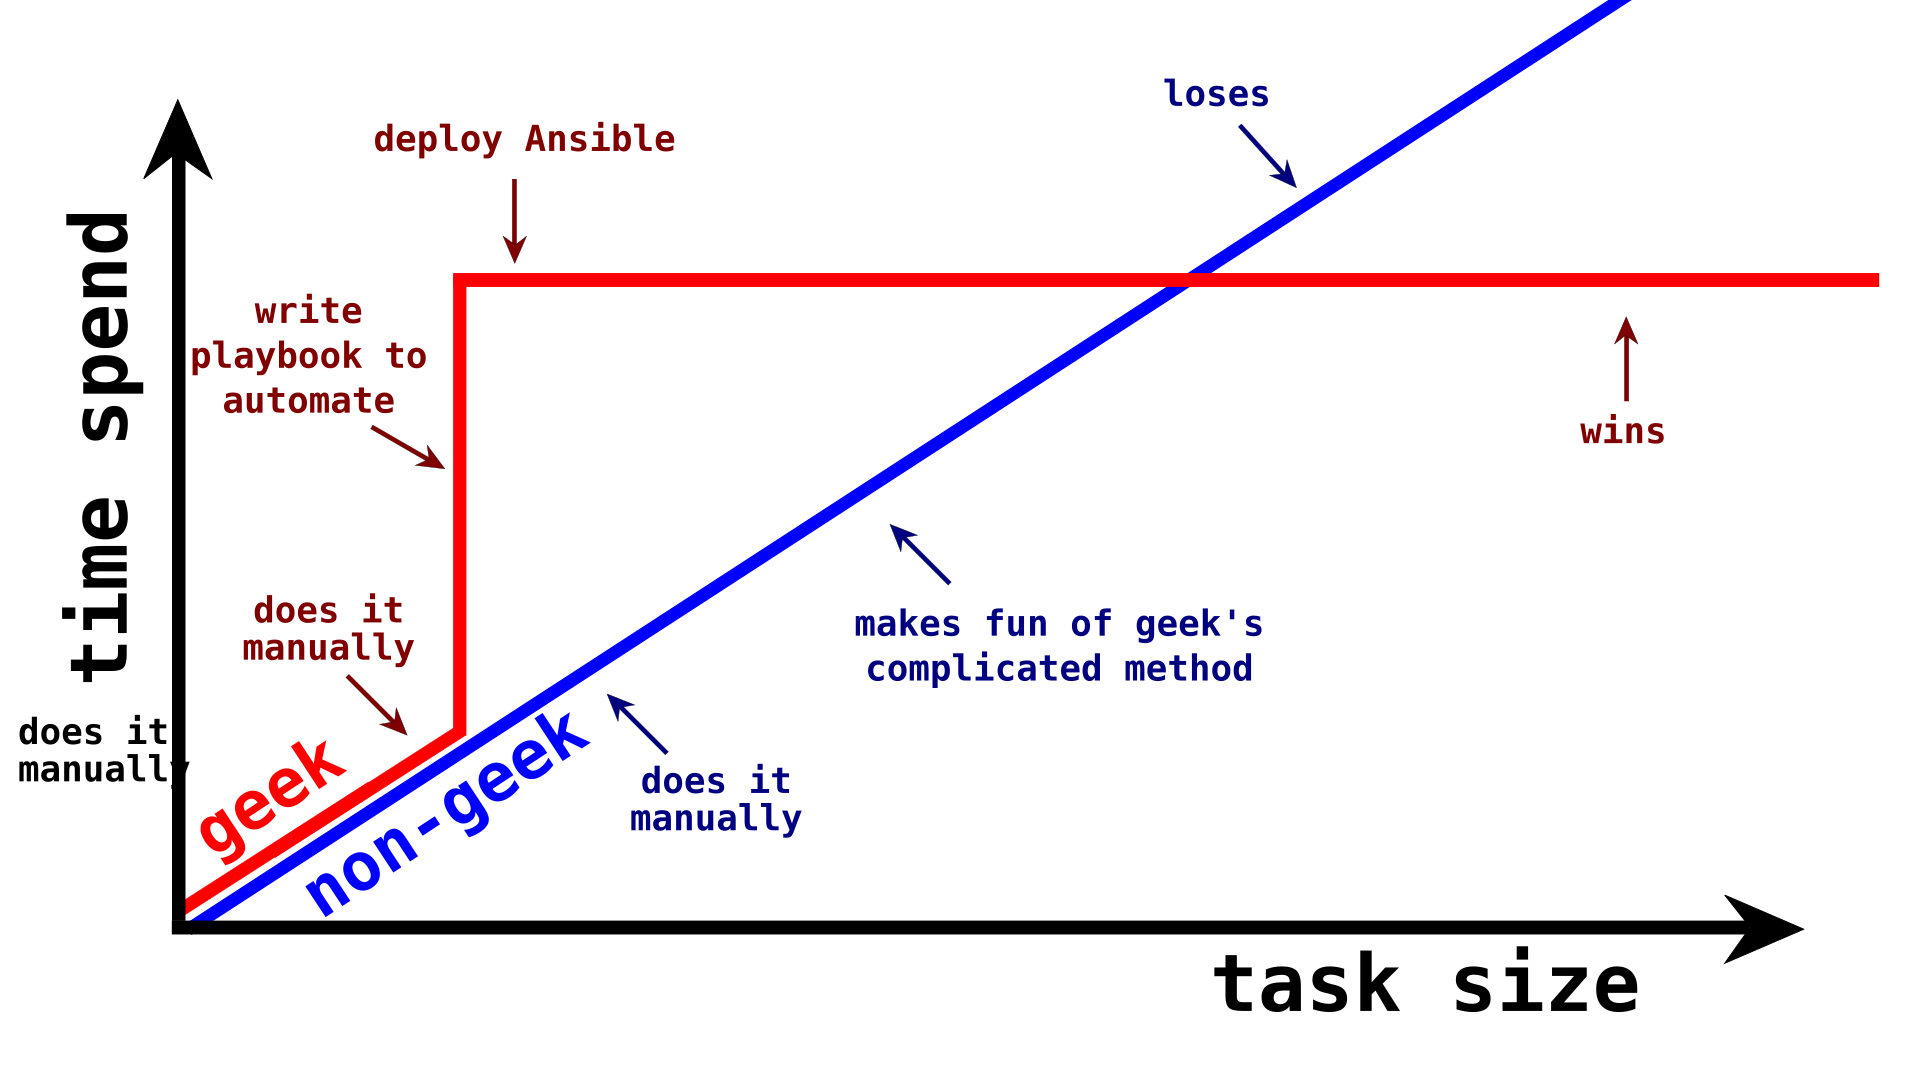
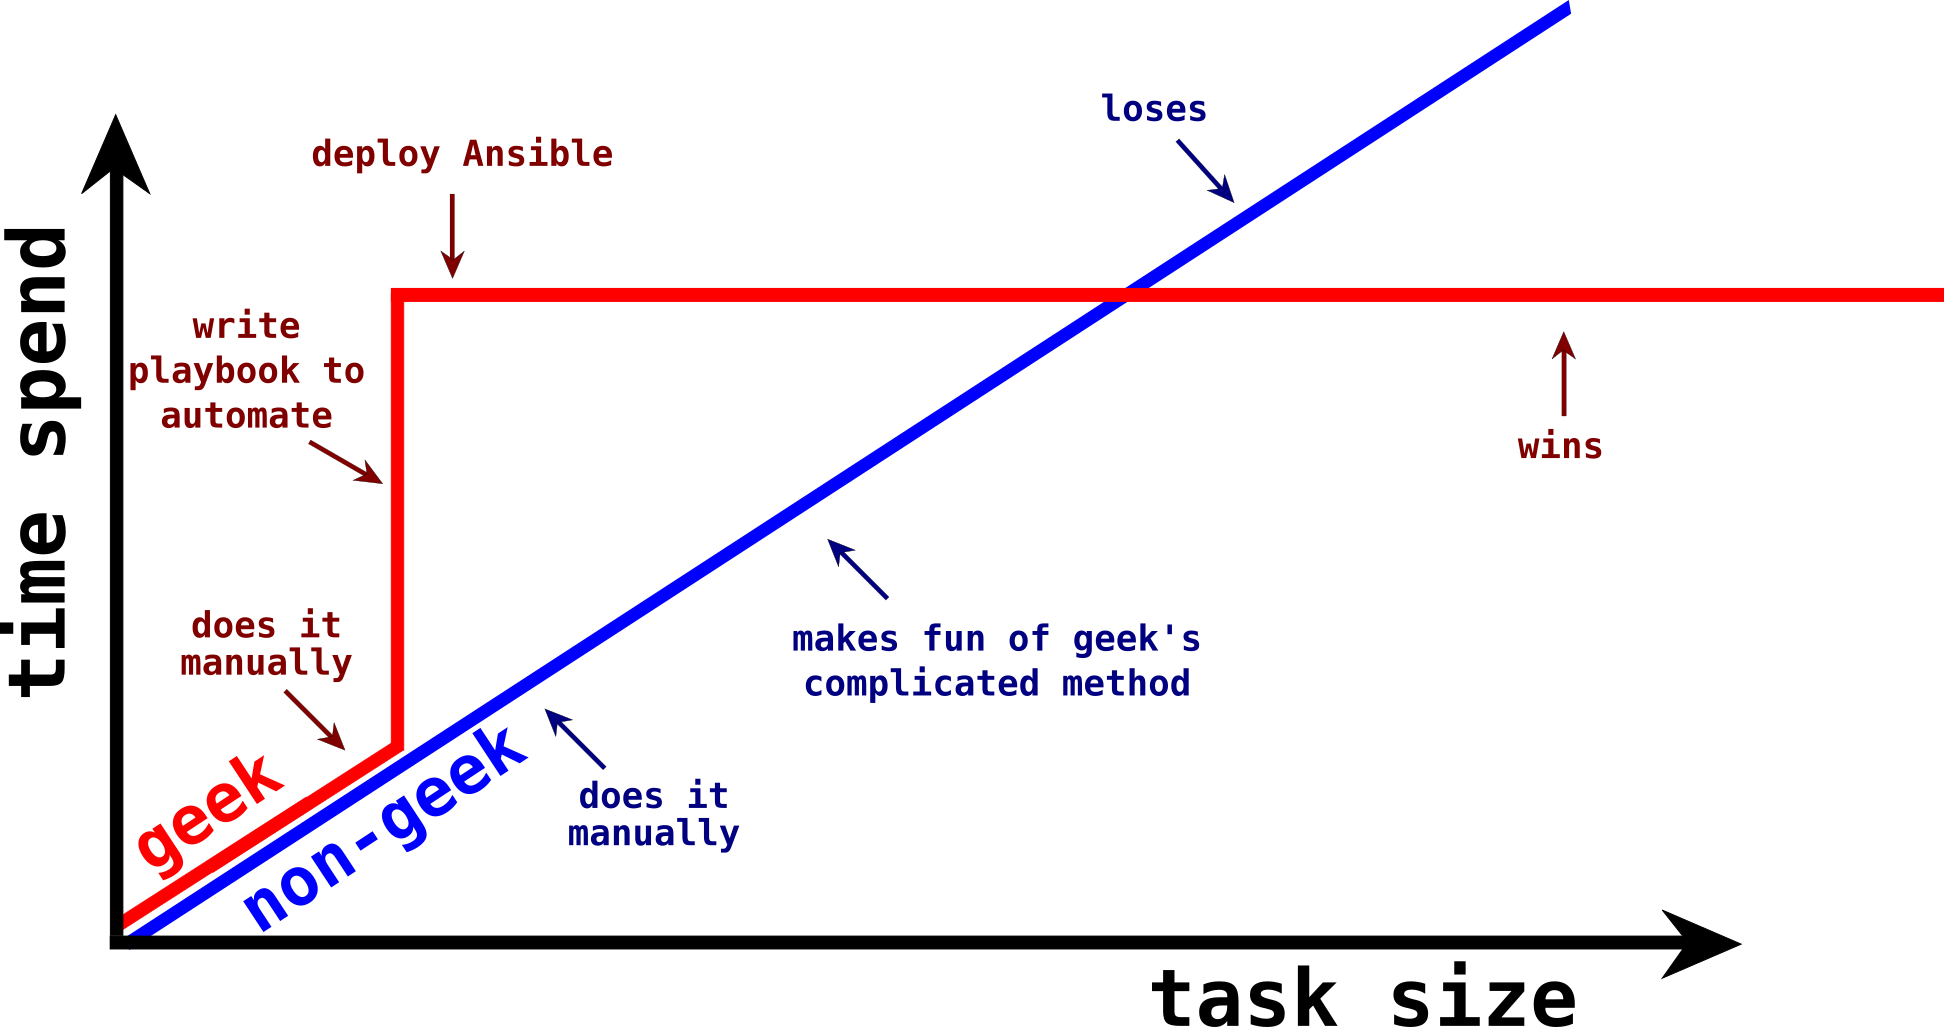
Add ansible graph

diff --git a/main.tex b/main.tex
@@ -115,6 +115,13 @@
 \end{frame}
 
 
-
+\section{Ansible} 
+\begin{frame}{Wieso Ansible?}
+    \begin{columns}
+        \begin{column}{1.0\textwidth}
+            \includegraphics[width=0.85\textwidth]{why_ansible.png}
+        \end{column}
+    \end{columns}
+\end{frame}
 
 \end{document}
